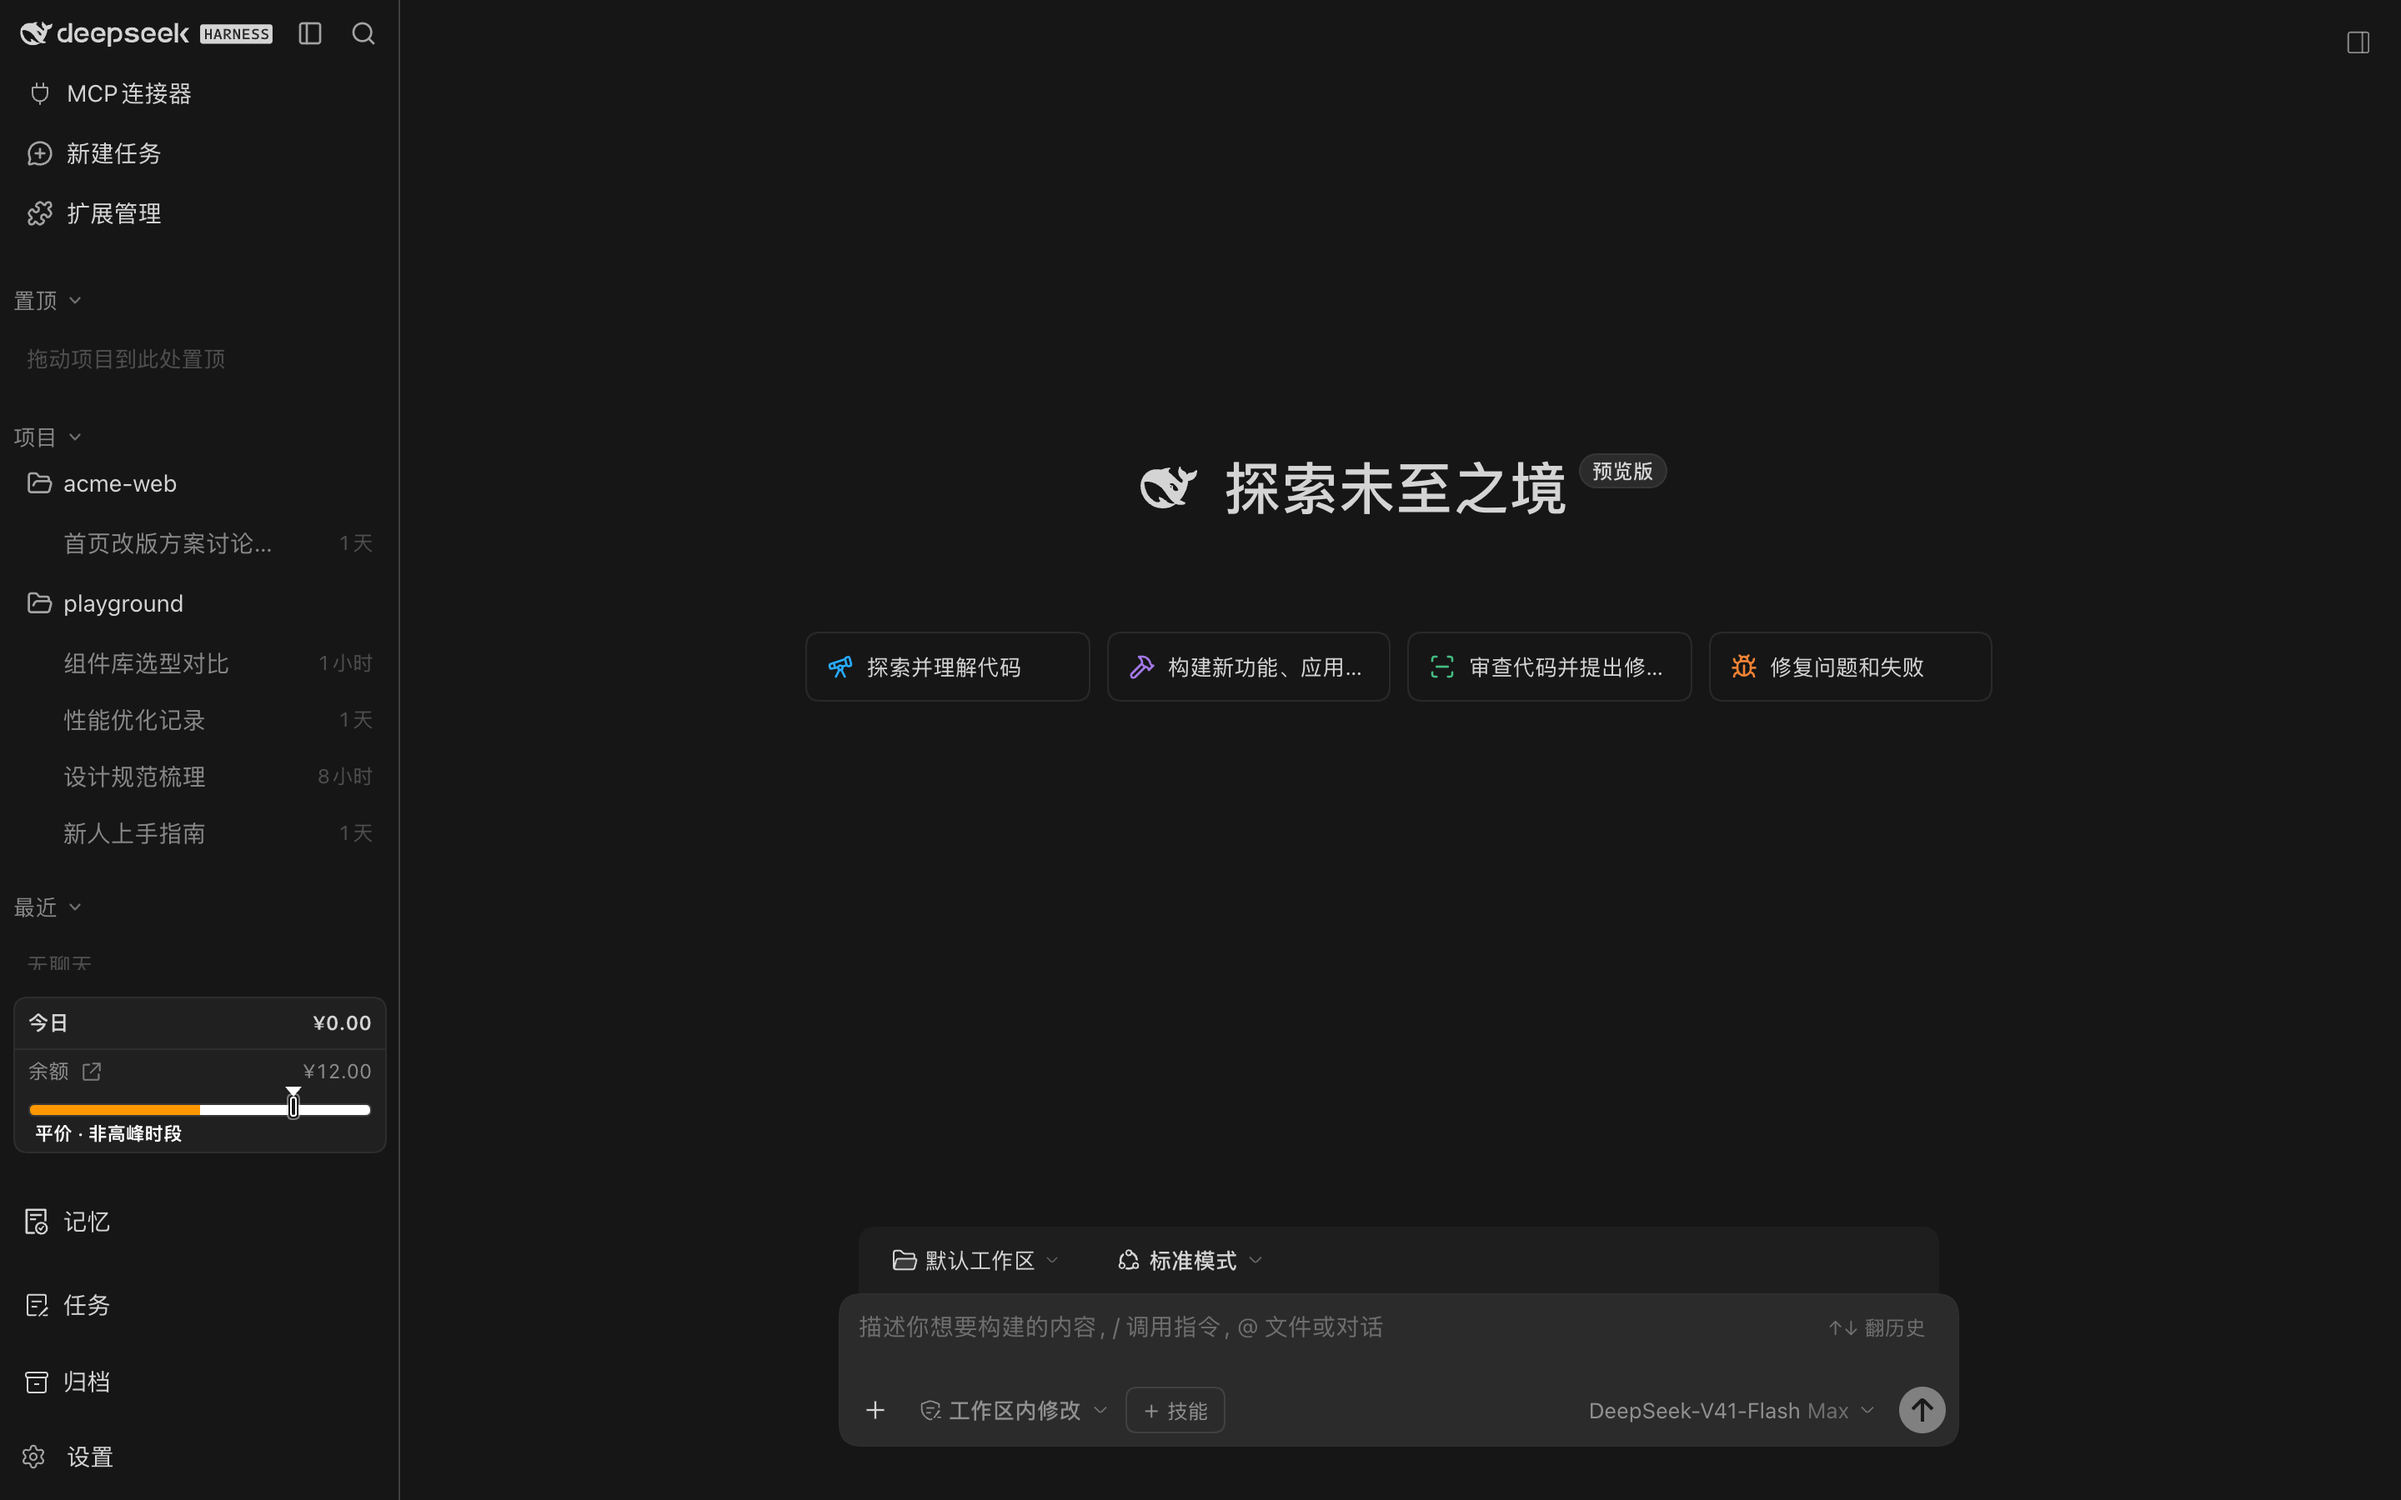
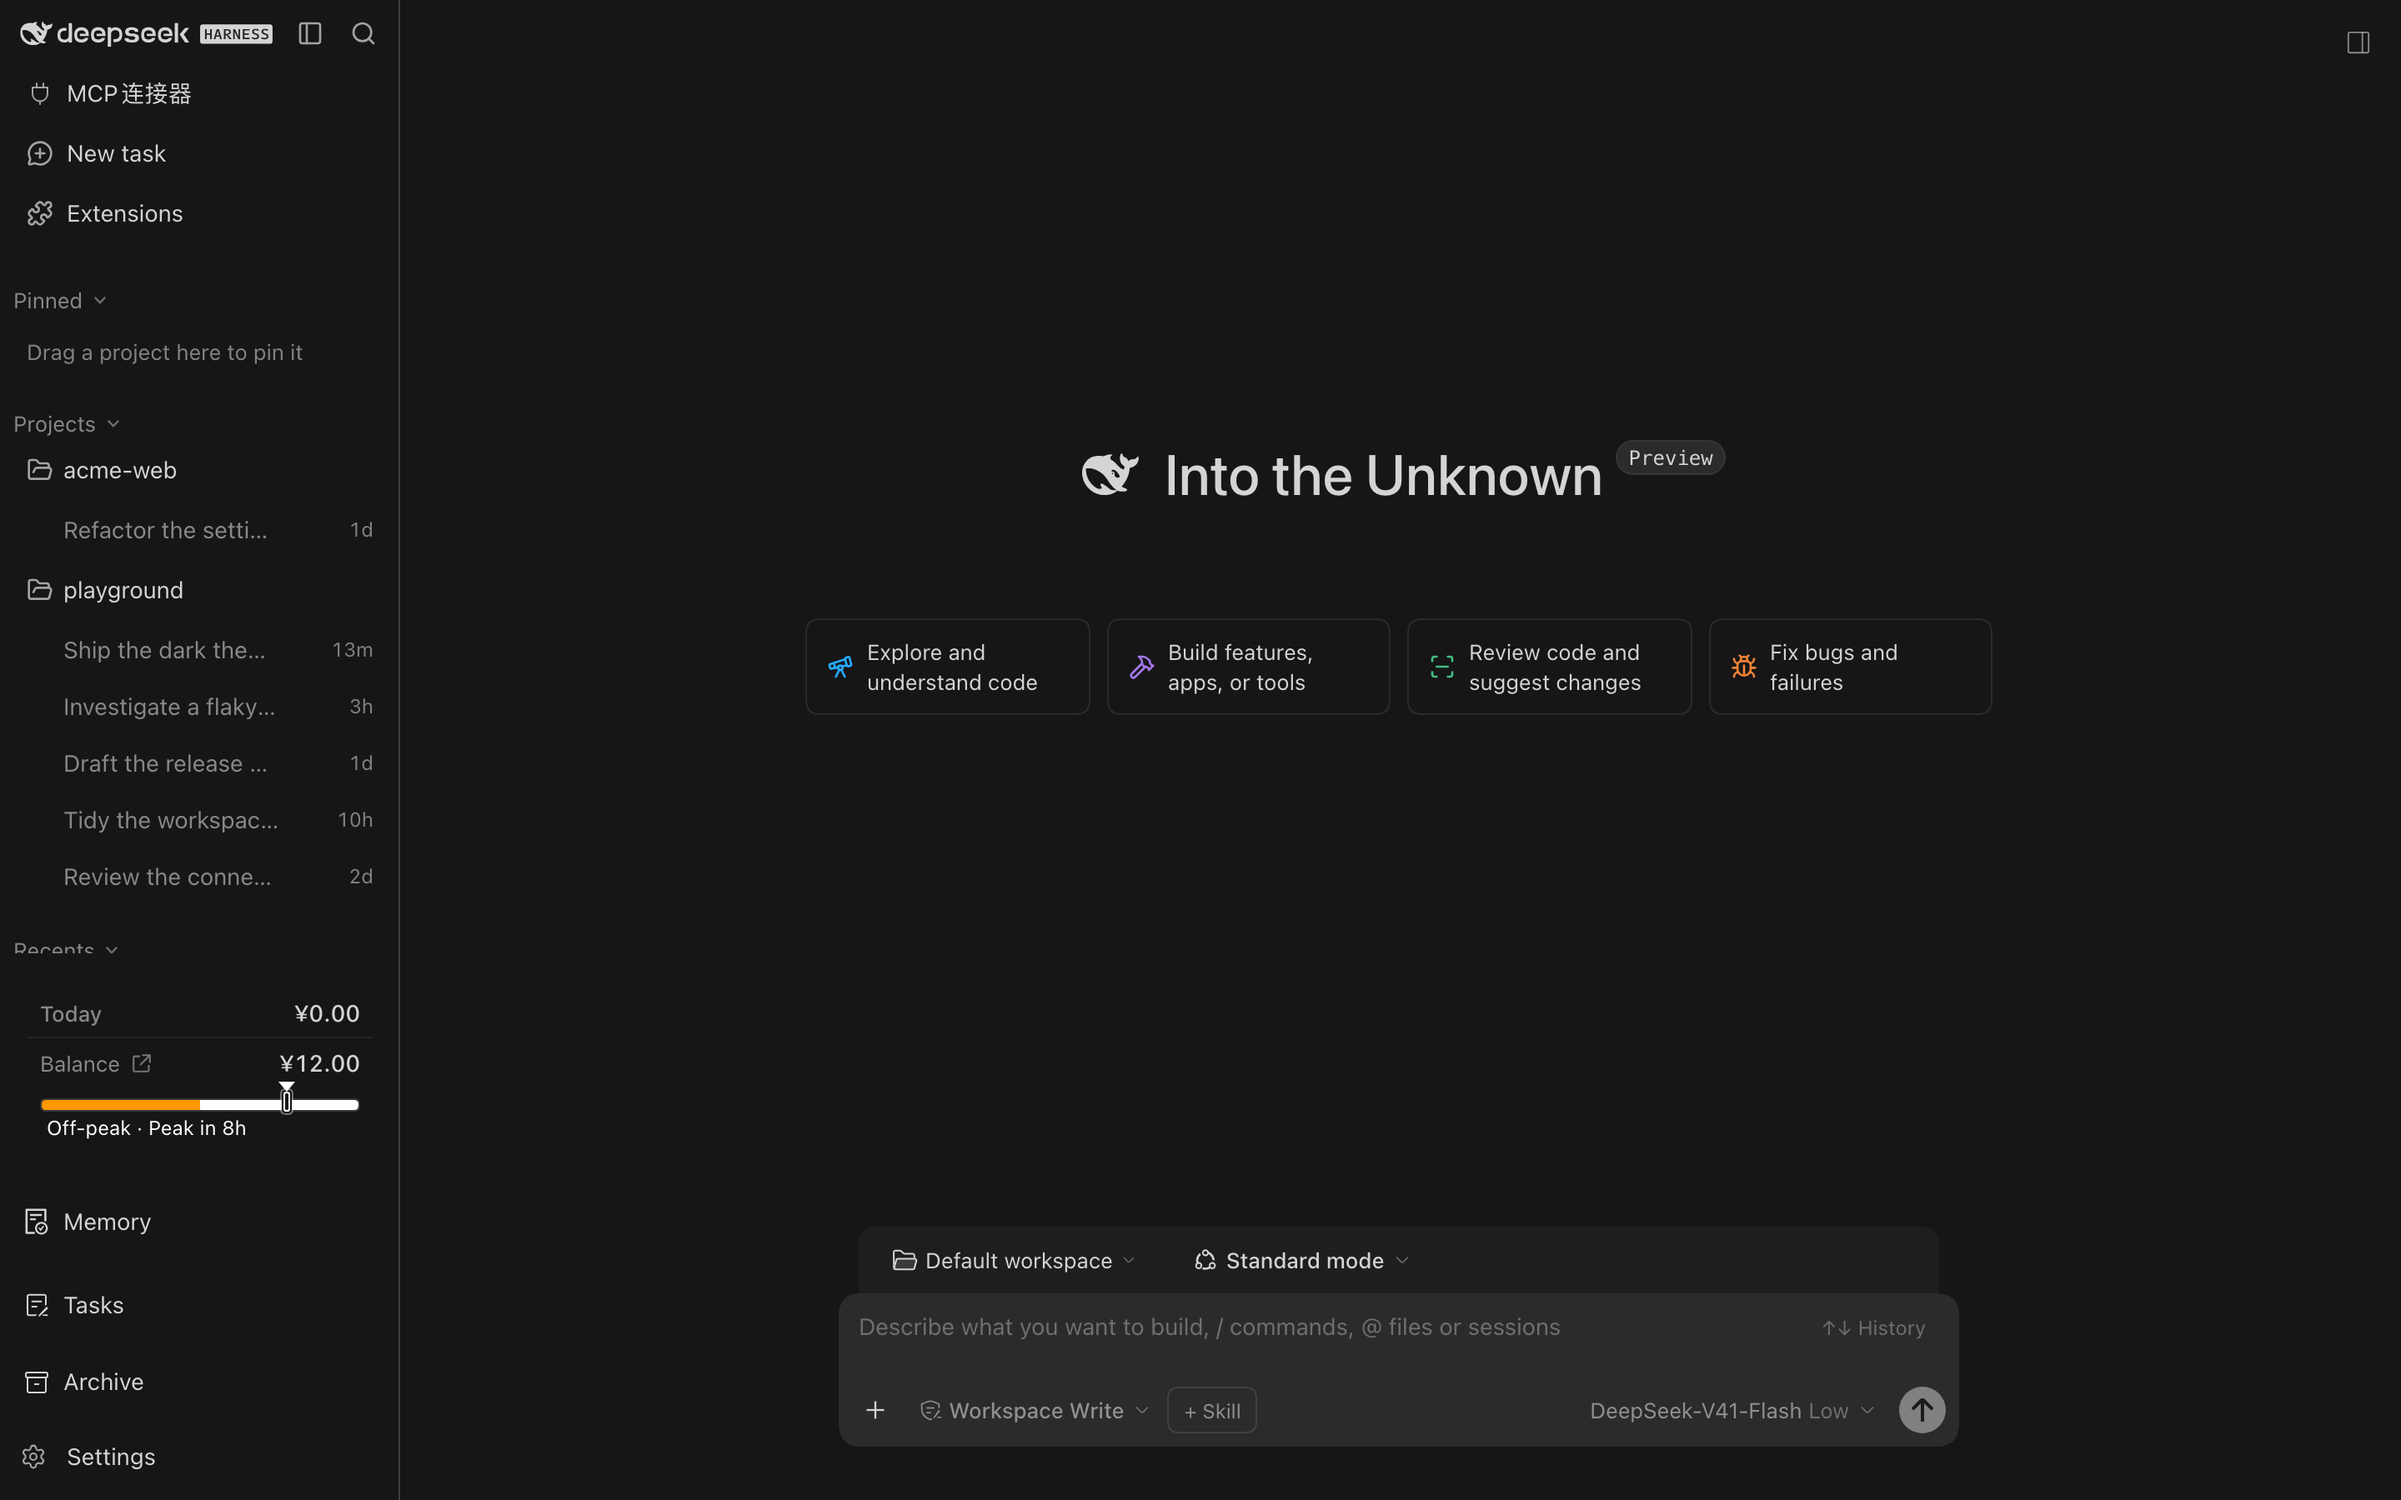
文档：补回界面展示图（脱敏重拍 5 张）并新增截图区
背景：隐私清理后 README 只剩顶部两张图——`debug/shots*/` 10 张与
`assets/screenshots/conversation.png` 因含真实项目名与账户余额被删除（且已清历史）。

- 脱敏重拍 5 张：`conversation-light/dark`（顶部横幅，重拍以反映本轮修复后的界面）、
  `settings-light`（展示中性选中态）、`search-light`、`collapsed-light`（展示折叠轨已隐藏计费卡）。
  拍摄前把项目名/会话标题/余额替换为演示值（acme-web / playground / ¥0.00 / ¥12.00）。
- **逐张目检 + 页面级残留自查**：搜索面板用的是自己的类名，第一版漏掉了侧栏与余额卡
  （截图里出现真实会话名与 ¥3.209），已补全替换后重拍，现页面残留真实值为 0。
- 两份 README 新增「界面截图」章节，并注明截图内数据均为演示值。
- docs/KNOWN-ISSUES.md §4 补记展示图清单与拍摄约定（先脱敏、再目检、后入库）。

diff --git a/README.md b/README.md
@@ -41,6 +41,25 @@ Nothing else changes. The plugin is a **pure presentation layer**: it does not t
 | **Theme** | Follows the host's own light/dark preference via `body[data-ds-dark-theme]`; light canvas `#f8f8f8`, dark canvas `#161616` |
 | **Sidebar behaviour** | Pin / group / drag-reorder projects and conversations, unread and running indicators, header search over sessions + settings + quick actions, rename / archive / fork / copy / delete, turn navigation in long conversations, Up/Down recall of previous input |
 
+## Screenshots
+
+The two images at the top of this page are the light and dark sidebar + workspace tree. A few more views.
+
+> Project names, conversation titles and the balance figures in every screenshot are **demo data** — the
+> captures are sanitised before committing so no real workspace ever appears in this repository.
+
+Settings page — selected states are neutral, matching the sidebar (no blue leftovers from the host defaults):
+
+![Settings page, light theme](assets/screenshots/settings-light.png)
+
+Header search across conversations and settings:
+
+![Header search, light theme](assets/screenshots/search-light.png)
+
+Collapsed rail — icon-only, with tooltips on hover:
+
+![Collapsed rail, light theme](assets/screenshots/collapsed-light.png)
+
 ## How it differs from upstream
 
 This fork keeps upstream's interaction scaffolding and data layer, and adds:

diff --git a/README.zh-CN.md b/README.zh-CN.md
@@ -41,6 +41,25 @@ DSH ZCode UI 把 DSH Web 的界面重新绘制成 ZCode（智谱 Zai）的视觉
 | **主题** | 跟随宿主自身的明暗偏好（`body[data-ds-dark-theme]`）；亮色画布 `#f8f8f8`、暗色 `#161616` |
 | **侧栏行为** | 项目与会话的置顶 / 分组 / 拖拽排序，未读与运行中指示；头部搜索覆盖会话、设置与快捷操作；重命名 / 归档 / 分叉 / 复制 / 删除；长会话轮次导航；空输入框按上/下键召回历史输入 |
 
+## 界面截图
+
+本页顶部的两张是明暗两套的侧栏与工作区会话树。另外几处。
+
+> 所有截图里的项目名、会话标题与余额数字都是**演示数据**——提交前会先做脱敏，
+> 因此本仓库里不会出现任何真实工作区的内容。
+
+设置页 —— 选中态是中性灰，与侧栏一致（没有宿主默认的蓝色残留）：
+
+![设置页 · 亮色](assets/screenshots/settings-light.png)
+
+头部搜索，覆盖会话与设置：
+
+![头部搜索 · 亮色](assets/screenshots/search-light.png)
+
+折叠后的窄轨 —— 纯图标，悬停有提示：
+
+![折叠窄轨 · 亮色](assets/screenshots/collapsed-light.png)
+
 ## 与上游的差别
 
 本 fork 保留上游的交互脚手架与数据层，在此之上增加：
